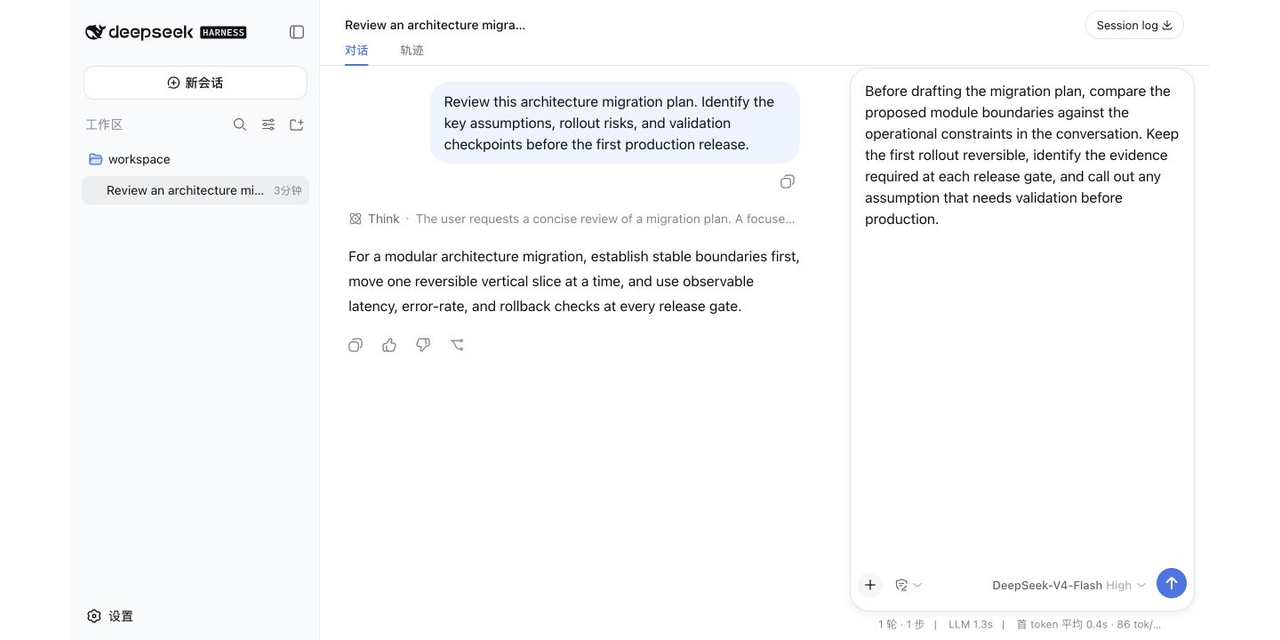
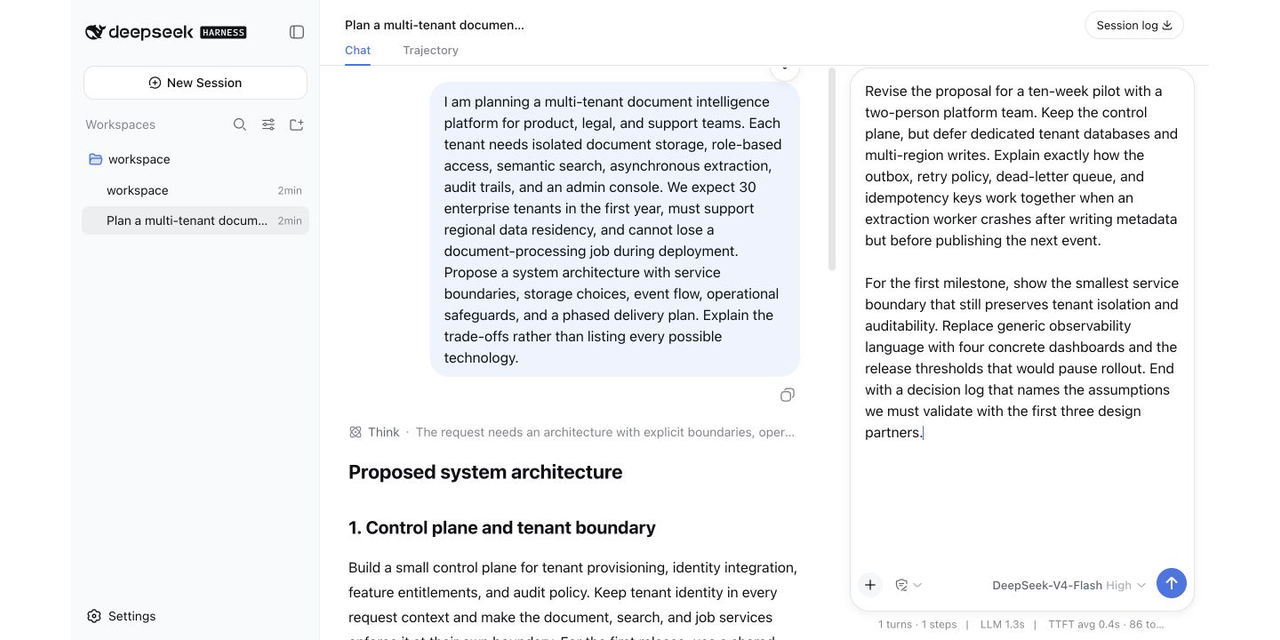
docs: add bilingual architecture demo heroes

diff --git a/PROMOTION.md b/PROMOTION.md
@@ -16,8 +16,8 @@ The product is for the moment a user stops composing a short reply and starts wo
 
 The README and repository preview use a real DSH Web capture rather than a concept illustration:
 
-- `assets/screenshots/right-side-composer.png` is a 1280×720 screenshot from a clean demonstration profile. Its architecture-migration review is written solely for the public material; it contains no user session content.
-- `assets/social-preview.png` is a 1280×640 social-preview image derived from that real capture, ready for the GitHub repository social-preview setting.
+- `assets/screenshots/hero-en.png` and `assets/screenshots/hero-zh.png` are 1280×720 screenshots from clean demonstration profiles. Both show a detailed multi-tenant platform architecture proposal beside a long revision instruction; all content was written solely for public material.
+- `assets/social-preview.png` is a 1280×640 social-preview image derived from the English capture, ready for the GitHub repository social-preview setting.
 
 Do not describe the layout as making every conversation larger or faster. Its concrete benefit is keeping a referenced conversation visible beside a long input. Use examples such as long instructions, revisions against earlier answers, code and log excerpts, and multi-step tasks.
 

diff --git a/README.md b/README.md
@@ -9,9 +9,9 @@
 
 Optional [DeepSeek Harness](https://github.com/deepseek-ai/deepseek-harness) Web plugin that lets the Composer stay at the bottom or dock in a right-side column. The chat and Composer keep their own space, while the normal DSH model, permission, quota, session, and tool behavior remains intact.
 
-![A real DSH Web session beside a tall right-side Composer](assets/screenshots/right-side-composer.png)
+![A real DSH Web session beside a tall right-side Composer](assets/screenshots/hero-en.png)
 
-_A clean demonstration profile reviewing an architecture migration plan. The conversation is sample content, not a user session._
+_A clean demonstration profile: a detailed multi-tenant platform architecture proposal on the left, then a long, concrete revision brief in the right-side Composer. The conversation is sample content, not a user session._
 
 ## Why a side-by-side Composer?
 

diff --git a/README.zh.md b/README.zh.md
@@ -9,9 +9,9 @@
 
 这是一个可选的 [DeepSeek Harness](https://github.com/deepseek-ai/deepseek-harness) Web 插件，让 Composer 保持在底部，或停靠到右侧栏。聊天区与 Composer 各自保留空间；模型、权限、额度、会话和工具行为继续使用 DSH 原有实现。
 
-![真实 DSH Web 会话与右侧高输入栏](assets/screenshots/right-side-composer.png)
+![真实 DSH Web 会话与右侧高输入栏](assets/screenshots/hero-zh.png)
 
-_截图来自独立的干净演示 profile：内容是一段架构迁移评审示例，并非任何用户会话。_
+_截图来自独立的干净演示 profile：左侧是一份多租户平台的详细架构方案，右侧则是一段针对方案的长篇修订指令；内容均为公开展示而写，并非任何用户会话。_
 
 ## 为什么要把 Composer 放在右侧？
 
